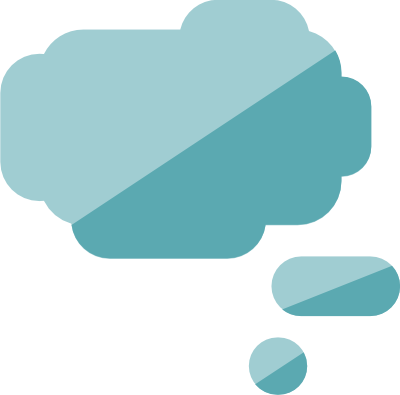
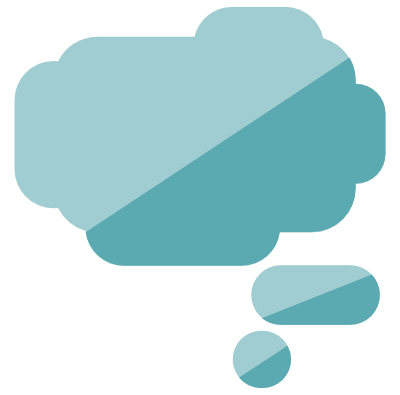
adding assets

Changed region(s): [[0.15, 0.0911, 1.0, 1.0], [0.0, 0.0, 0.75, 0.5468], [0.75, 0.0304, 0.81, 0.0911]]

diff --git a/css/index.css b/css/index.css
@@ -193,29 +193,25 @@ footer {
   padding: 1%;
 }
 .home_header {
-  border: 1px solid black;
-  padding: 4%;
   margin-top: 6%;
-  display: flex;
-  justify-content: center;
-  align-items: center;
-  flex-direction: column;
-  background: "../assets/thoughtBubble.png";
+  background: url(../assets/thoughtBubble.png);
+  background-repeat: no-repeat;
+  height: 500px;
+  background-size: contain;
 }
 h2 {
   margin-bottom: 6%;
 }
 .action_cont {
-  max-width: 80%;
-  margin: 0 auto;
-  margin-top: 3%;
+  max-width: 75%;
+  padding: 4%;
   background-color: #F2EBEB;
   border-radius: 15px;
-  border: 1px solid black;
-  padding: 4%;
   display: flex;
   justify-content: center;
   align-items: center;
+  flex-direction: column;
+  display: none;
 }
 .button_action {
   display: flex;
@@ -224,9 +220,11 @@ h2 {
   cursor: pointer;
   color: #F2EBEB;
   font-size: 1.5rem;
-  padding: 15% 30%;
+  padding: 10% 15%;
   text-decoration: none;
   border-radius: 15px;
+  width: 20%;
+  margin: 4% auto;
 }
 .quote_cont {
   background-color: #9FD6AC;

diff --git a/less/home.less b/less/home.less
@@ -1,24 +1,31 @@
 .home_header {
-    .viewCont();
+    // .viewCont();
     margin-top: 6%;
-    .center();
-    background: @thoughtBubble;
+    // .center();
+    background: url(@thoughtBubble);
+    background-repeat: no-repeat;
+    height: 500px;
+    background-size: contain;
 }
 h2 {
     margin-bottom: 6%;
 }
 .action_cont{
-    max-width: 80%;
-    margin: 0 auto;
+    max-width: 75%;
+    // margin-top: 4%;
     .defaultPadding();
-    margin-top: 3%;
     background-color: @backgroundColor;
     border-radius: 15px;
-    .viewCont();
+    // .viewCont();
+    .center();
+    // position: relative;
+    // top: 12%; left: 1%;
+    display: none;
 
 }
 .button_action {
     .btn2(@red, @backgroundColor);
+    margin: 4% auto;
 }
 .quote_cont {
     background-color: @mainColorOne;

diff --git a/index.html b/index.html
@@ -32,10 +32,10 @@
                 what is truly important in your life.
             </p>
         </div>
-        <a href="#">
-            <div class="button_action">Try Tōdai</div>
-        </a>
     </header>
+    <a href="#">
+        <div class="button_action">Try Tōdai</div>
+    </a>
     <section class="quote_cont">
         <div class="quote">
             <p><em>

diff --git a/less/variables.less b/less/variables.less
@@ -15,7 +15,9 @@
 @darkRed: #FE5F5F;
 
 // Assets
-@thoughtBubble: "../assets/thoughtBubble.png";
+@thoughtBubble: ~"../assets/thoughtBubble.png";
+@topBanner: ~"../assets/topBanner.png";
 
 // Media Queries
 @desktop: ~"(min-width:500px)";
+

diff --git a/less/mixins.less b/less/mixins.less
@@ -29,9 +29,10 @@
     cursor: pointer;
     color: @backgroundColor;
     font-size: 1.5rem;
-    padding: 15% 30%;
+    padding: 10% 15%;
     text-decoration: none;
     border-radius: 15px;
+    width: 20%;
 }
 
 // Debugging
